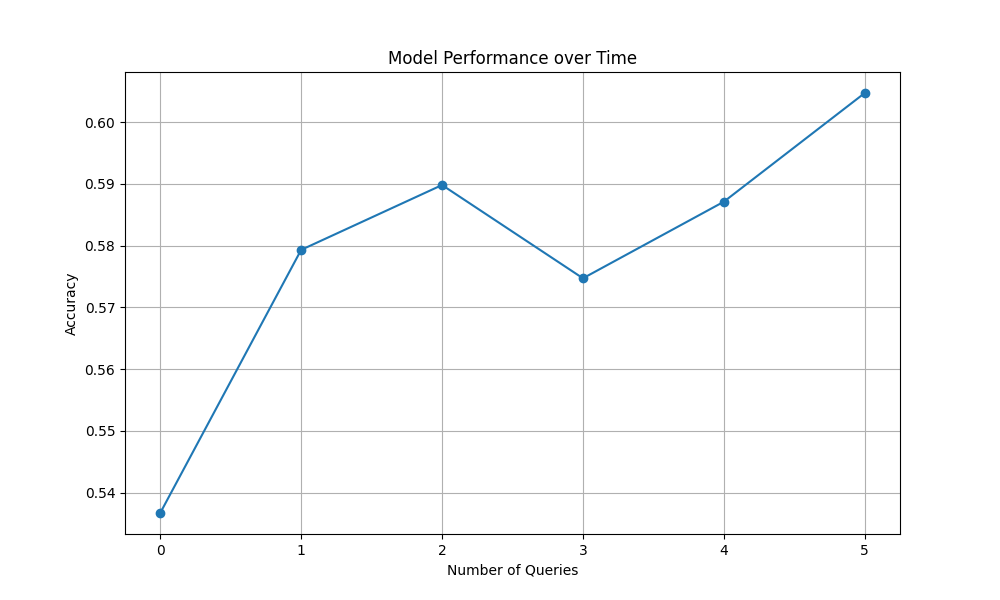
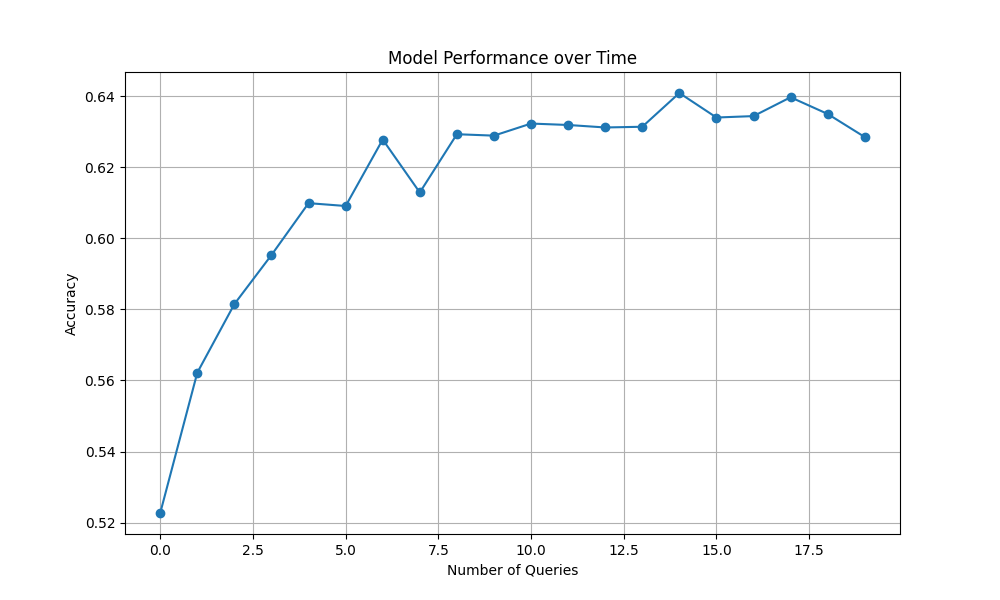
results_more

diff --git a/cifar-10-batches-py/readme.html b/cifar-10-batches-py/readme.html
@@ -1,0 +1,1 @@
+<meta HTTP-EQUIV="REFRESH" content="0; url=http://www.cs.toronto.edu/~kriz/cifar.html">

diff --git a/gpt.py b/gpt.py
@@ -61,7 +61,7 @@ classifier = NeuralNetClassifier(
     train_split=None,
     verbose=1,
     device=device,
-    max_epochs=10
+    max_epochs=5
 )
 
 # 初始化 ActiveLearner
@@ -74,19 +74,21 @@ learner = ActiveLearner(
 
 X_test, y_test = load_data(cifar10_test)
 # 设置目标准确率阈值和不确定度阈值
-target_accuracy = 0.60
+target_accuracy = 0.70
 uncertainty_threshold = 0.4
 
 # 主动学习循环
 # 开始主动学习
 performance_history = []
-n_instances = 100  # 每次选择的样本数
-with open('performance_history.log', 'w') as log_file:    
-    while learner.score(X_test.numpy(), y_test.numpy()) < target_accuracy:
+n_instances = 1000  # 每次选择的样本数
+i=0
+with open('performance_history_{}_{}_{}.log'.format(target_accuracy,uncertainty_threshold,n_instances), 'w') as log_file:    
+    while learner.score(X_test.numpy(), y_test.numpy()) < target_accuracy and i<20:
         # query_idx, query_instance = learner.query(X_pool.numpy(),n_instances=2000)
         # stream_idx = np.random.choice(range(len(X_pool)))
         # X_stream = X_pool[stream_idx].unsqueeze(0).numpy()
         # y_stream = np.array([y_pool[stream_idx].item()])
+        i=i+1
         stream_indices = np.random.choice(range(len(X_pool)), size=n_instances, replace=False)
         X_stream = X_pool[stream_indices].numpy()
         y_stream = np.array([y_pool[idx].item() for idx in stream_indices])
@@ -125,7 +127,7 @@ with open('performance_history.log', 'w') as log_file:
 final_accuracy = learner.score(X_test.numpy(), y_test.numpy())
 print(f'最终测试集准确率: {final_accuracy * 100:.2f}%')
 # 保存准确率信息到文件
-with open('performance_history.log', 'a') as log_file:
+with open('performance_history_{}_{}_{}.log'.format(target_accuracy,uncertainty_threshold,n_instances), 'a') as log_file:
     log_file.write(f'最终测试集准确率: {final_accuracy * 100:.2f}%\n')
 
 # 绘制 performance_history
@@ -135,5 +137,5 @@ plt.title('Model Performance over Time')
 plt.xlabel('Number of Queries')
 plt.ylabel('Accuracy')
 plt.grid(True)
-plt.savefig('performance_history.png')
+plt.savefig('performance_history_{}_{}_{}.png'.format(target_accuracy,uncertainty_threshold,n_instances))
 plt.show()
